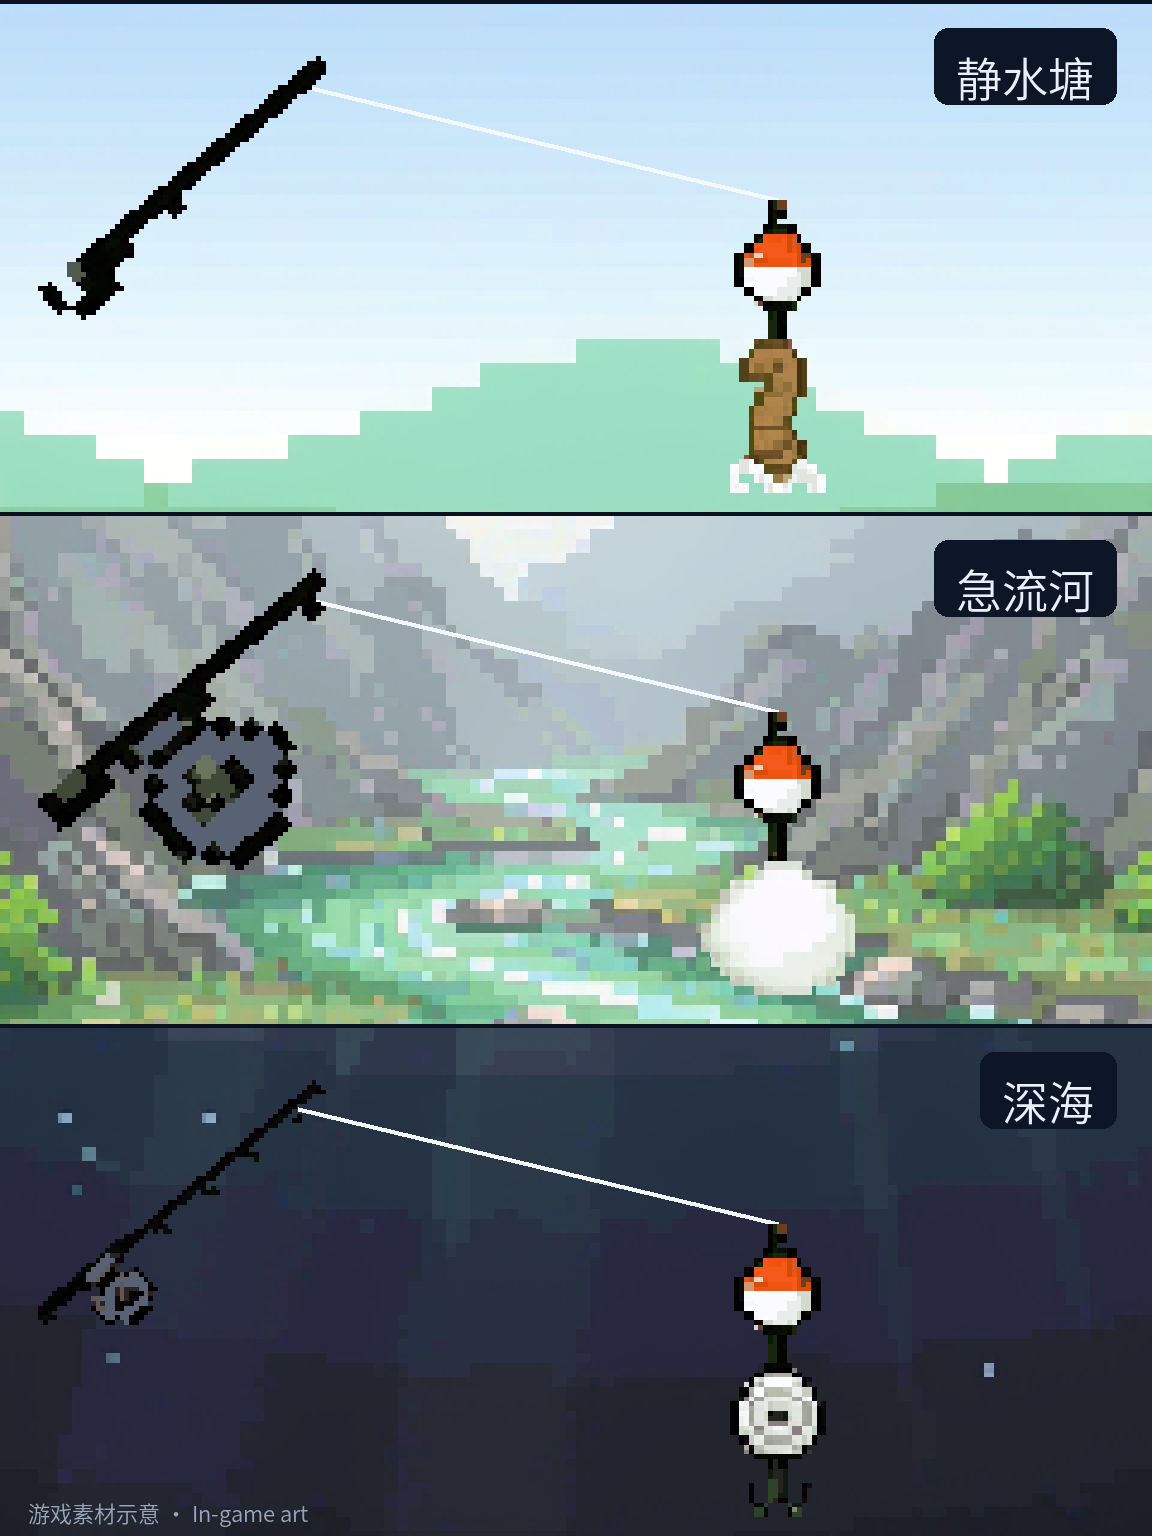
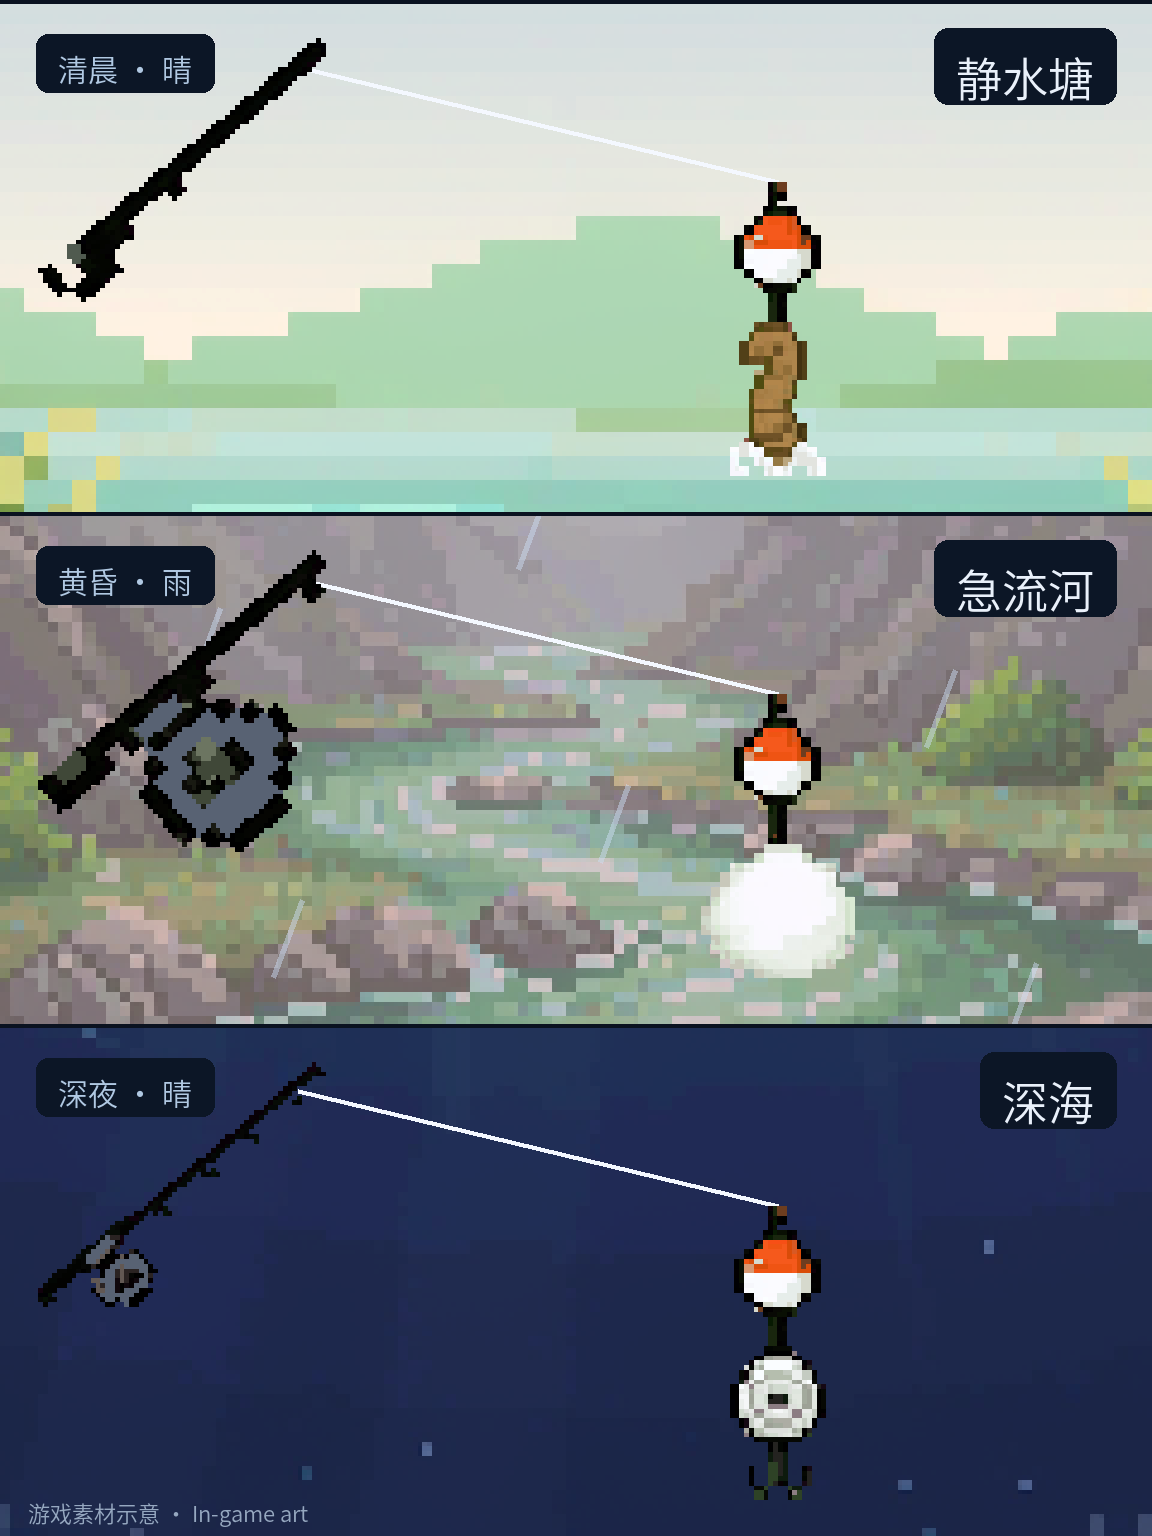
chore(fishing): 上架素材同步 v3 氛围（封面/配图/更新日志/简介）
发布素材随 v3 改进一起更新：
- 封面换成「清晨·晴」版：色调取自 main/fishing.c 的 env_visual()，标题仍是白字深蓝描边，
  商店缩略图上最清楚；旧版与四种时段对比图见 assets/cover/fishing-cover-env-compare.png。
- 三片钓场配图：改用实机坐标（面板内相对坐标要再加 HUD_H=22，之前整张偏高 22px，
  鱼竿没落在水线上），并按场景加上时段/天气染色与雨丝、左上角加「时段·天气」角标。
- 更新日志只写本次变化：24 鱼性格、钓场时段天气、图鉴里程碑、顺带修掉的三处画面错位。
- 简介补上"每条鱼都有性格"和"钓场分早晚天气"两处卖点。

工具：make_cover_v3.py 加 --env/--env-compare（氛围变体），
make_extra_shots.py 的配色复用 tools/preview_ui.py 的 env_visual()，两处不许各写一份。

diff --git a/tools/make_extra_shots.py b/tools/make_extra_shots.py
@@ -33,18 +33,20 @@ FISH_ZH = {
     "xiaohuang": "小黄鱼", "daiyu": "带鱼", "bayu": "鲅鱼", "shiban": "石斑鱼",
     "bimu": "比目鱼", "jinqiang": "金枪鱼", "qiyu": "旗鱼", "xiaosha": "小鲨鱼",
 }
-# (素材, 名称, 纵向裁切位置 0=顶 1=底, 鱼竿, 鱼饵)
-# 裁切位置要让"竿尖→浮漂→鱼饵"整套家什都落在画格里（竿在 y116~，饵到 y207），
-# 所以三片都取中段，不再取贴顶/贴底。
+# (素材, 名称, 纵向裁切位置 0=顶 1=底, 鱼竿, 鱼饵, 时段, 天气)
+# 裁切位置要让"竿尖→浮漂→鱼饵"整套家什都落在画格里：竿顶 y138、饵底 y229，
+# 所以裁切中心要落在这套家什的中点（约 y183）上，否则鱼饵会被切掉半截。
 SCENES = [
-    ("bg_pond", "静水塘", 0.49, "rod_hand", "bait_worm"),
-    ("bg_river", "急流河", 0.49, "rod_lure", "bait_dough"),
-    ("bg_sea", "深海", 0.49, "rod_sea", "bait_spinner"),
+    ("bg_pond", "静水塘", 0.61, "rod_hand", "bait_worm", "清晨", "晴"),
+    ("bg_river", "急流河", 0.61, "rod_lure", "bait_dough", "黄昏", "雨"),
+    ("bg_sea", "深海", 0.61, "rod_sea", "bait_spinner", "深夜", "晴"),
 ]
 
-# 与 main/fishing.c 的 ROD_X/ROD_Y/FLOAT_*/BAIT_DY 一致
-ROD_X, ROD_Y = 8, 116
-FLOAT_X, FLOAT_Y, FLOAT_W = 150, 146, 24
+# 与 main/fishing.c 的 ROD_X/ROD_Y/FLOAT_*/BAIT_DY 一致，但注意这些都是【屏幕】坐标：
+# 钓场是 pos=(0, HUD_H) 的面板，子元素坐标是面板内相对坐标，屏幕上要再加 HUD_H。
+HUD_H = 22
+ROD_X, ROD_Y = 8, 22 + 116
+FLOAT_X, FLOAT_Y, FLOAT_W = 150, 22 + 146, 24
 BAIT_DY = 29
 
 INK = (14, 26, 44)
@@ -103,6 +105,27 @@ def make_codex():
     print("saved", out)
 
 
+def apply_env(img: Image.Image, period: str, weather: str, sc: float = 1.0) -> Image.Image:
+    """时段/天气染色层 —— 直接复用 tools/preview_ui.py 的 env_visual()，
+    两处配色不许各写一份（否则实机改了图没跟着改）。"""
+    sys.path.insert(0, os.path.join(ROOT, "tools"))
+    import preview_ui
+    (r, g, b), opa = preview_ui.env_visual(period, weather)
+    out = img.convert("RGBA")
+    if opa:
+        ov = Image.new("RGBA", out.size, (r, g, b, opa))
+        out = Image.alpha_composite(out, ov)
+    if weather == "雨":
+        layer = Image.new("RGBA", out.size, (0, 0, 0, 0))
+        ld = ImageDraw.Draw(layer)
+        # 雨丝坐标是【游戏坐标】，这里要跟着 sc 一起放大（底图已经放大了）
+        for p0, p1 in preview_ui.RAIN_POINTS:
+            ld.line([(p0[0] * sc, p0[1] * sc), (p1[0] * sc, p1[1] * sc)],
+                    fill=(205, 222, 245, 120), width=max(1, int(round(sc))))
+        out = Image.alpha_composite(out, layer)
+    return out
+
+
 def overlay_tackle(scene, rod_name, bait_name, sc):
     """把鱼竿/鱼线/浮漂/鱼饵按 main/fishing.c 的坐标叠到放大后的钓场图上。
 
@@ -132,11 +155,13 @@ def make_scenes():
     img = Image.new("RGB", (W, H), INK)
     band_h = H // 3
     d = ImageDraw.Draw(img)
-    for i, (key, zh, bias, rod, bait) in enumerate(SCENES):
+    for i, (key, zh, bias, rod, bait, period, weather) in enumerate(SCENES):
         bg = Image.open(os.path.join(PNG, key + ".png")).convert("RGB")
         # 按宽度铺满、纵向居中裁切
         sc = W / bg.width
         bg = bg.resize((W, int(bg.height * sc)), Image.NEAREST).convert("RGBA")
+        # 时段/天气染色层：与 main/fishing.c 的 env_visual() 同一套配色
+        bg = apply_env(bg, period, weather, sc)
         overlay_tackle(bg, rod, bait, sc)
         top = max(0, int((bg.height - band_h) * bias))
         band = bg.crop((0, top, W, top + band_h)).convert("RGB")
@@ -149,6 +174,13 @@ def make_scenes():
                W - 36, i * band_h + 104)
         d.rounded_rectangle(box, radius=14, fill=(12, 22, 38))
         d.text((W - 36 - tw - 22, i * band_h + 42), zh, font=f, fill=PAPER)
+        # 时段·天气标注（画面外的说明性角标，和钓点胶囊同一套样式）
+        env_text = "%s · %s" % (period, weather)
+        fe = font(30)
+        we = d.textlength(env_text, font=fe)
+        box2 = (36, i * band_h + 34, 36 + we + 44, i * band_h + 92)
+        d.rounded_rectangle(box2, radius=12, fill=(12, 22, 38))
+        d.text((36 + 22, i * band_h + 46), env_text, font=fe, fill=(176, 200, 226))
 
     corner_note(d)
     out = os.path.join(OUT, "fishing-shot-scenes-3x4.png")

diff --git a/tools/make_cover_v3.py b/tools/make_cover_v3.py
@@ -230,6 +230,33 @@ def make(warm: bool = False, y_offset: int = 0) -> Image.Image:
     return overlay_text(scene, warm)
 
 
+def env_filter(img: Image.Image, period: str, weather: str) -> Image.Image:
+    """给封面整幅上时段/天气色调 —— 配色直接取自 main/fishing.c 的 env_visual()
+    （tools/preview_ui.py 是它的镜像），两处不许各写一份。"""
+    sys.path.insert(0, os.path.join(ROOT, "tools"))
+    import preview_ui
+    (r, g, b), opa = preview_ui.env_visual(period, weather)
+    out = img.convert("RGBA")
+    ov = Image.new("RGBA", out.size, (r, g, b, opa))
+    out = Image.alpha_composite(out, ov)
+    if weather == "雨":
+        layer = Image.new("RGBA", out.size, (0, 0, 0, 0))
+        ld = ImageDraw.Draw(layer)
+        sc = (W * SCALE) / 240.0
+        for p0, p1 in preview_ui.RAIN_POINTS:
+            ld.line([(p0[0] * sc, p0[1] * sc), (p1[0] * sc, p1[1] * sc)],
+                    fill=(205, 222, 245, 120), width=max(1, int(round(sc))))
+        out = Image.alpha_composite(out, layer)
+    return out.convert("RGB")
+
+
+def make_env(period: str, weather: str) -> Image.Image:
+    scene = build_scene().convert("RGB").resize(
+        (int(W * SCALE), int(H * SCALE)), Image.NEAREST)
+    scene = env_filter(scene, period, weather)
+    return overlay_text(scene, False)
+
+
 def make_compare(paths, out_path) -> None:
     Z = 0.30
     ims = []
@@ -257,14 +284,32 @@ def make_compare(paths, out_path) -> None:
 def main() -> int:
     warm = "--warm" in sys.argv
     args = [a for a in sys.argv[1:] if not a.startswith("--")]
+    period = weather = None
+    if "--env" in sys.argv:
+        i = sys.argv.index("--env")
+        period, weather = sys.argv[i + 1], sys.argv[i + 2]
     out = args[0] if args else os.path.join(
         COVER_DIR, "fishing-cover-v3-warm-3x4.png" if warm else "fishing-cover-v3-3x4.png")
     os.makedirs(COVER_DIR, exist_ok=True)
 
-    img = make(warm)
+    img = make_env(period, weather) if period else make(warm)
     img.save(out)
     w, h = img.size
     print("saved %s  %dx%d  is3x4=%s" % (out, w, h, w * 4 == h * 3))
+
+    if "--env-compare" in sys.argv:
+        cands = []
+        for tag, per, wea in (("morning-clear", "清晨", "晴"),
+                              ("noon-clear", "正午", "晴"),
+                              ("dusk-rain", "黄昏", "雨"),
+                              ("night-clear", "深夜", "晴")):
+            q = os.path.join(COVER_DIR, "fishing-cover-env-%s-3x4.png" % tag)
+            make_env(per, wea).save(q)
+            cands.append(("时段 %s · %s" % (per, wea), q))
+        make_compare([("现封面 · 晴日", os.path.join(
+            ROOT, "assets", "publish", "v2", "fishing-cover-3x4.png"))] + cands,
+            os.path.join(COVER_DIR, "fishing-cover-env-compare.png"))
+        print("saved env compare")
 
     if "--compare" in sys.argv:
         old = os.path.join(ROOT, "assets", "publish", "v2", "fishing-cover-3x4.png")
